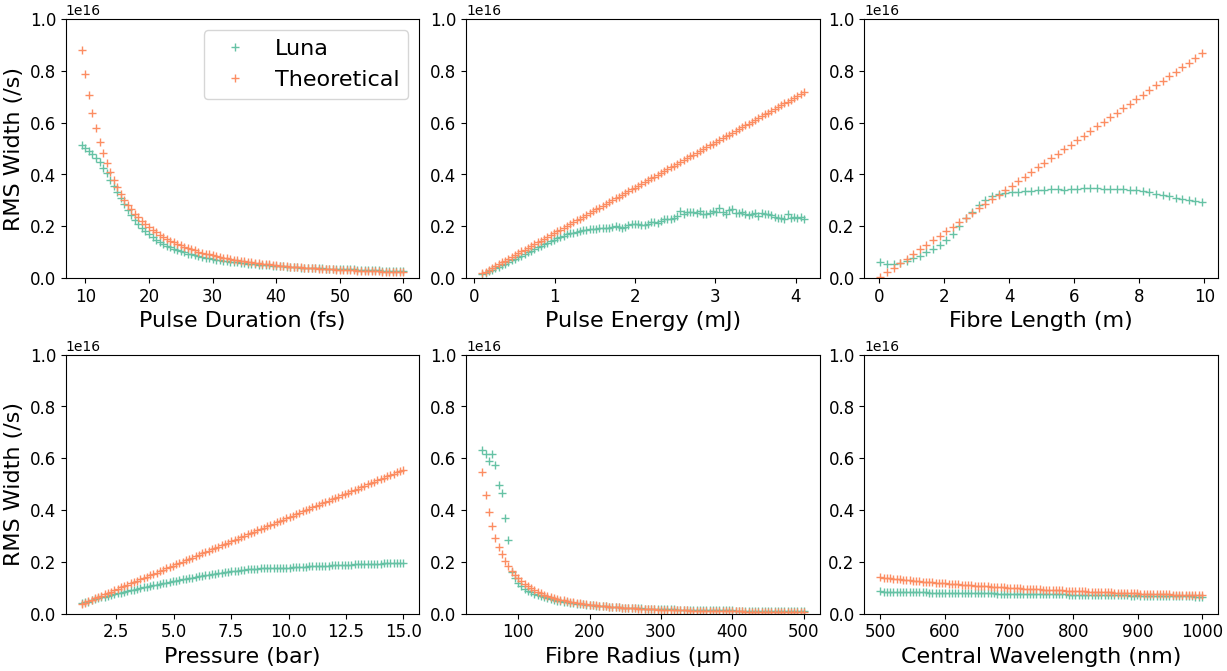
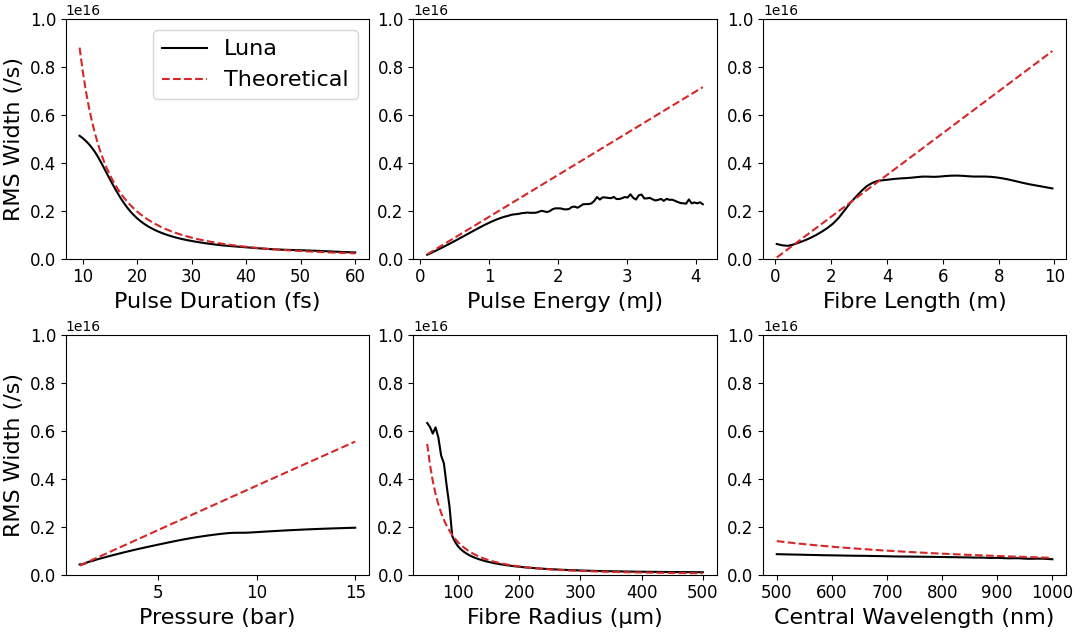
replotted

diff --git a/HCF sim/Python/building_datasets/gaussian_input/angfreq_bandwidth/plots/simulation vs theoretical/plot_all_in_subplots.py b/HCF sim/Python/building_datasets/gaussian_input/angfreq_bandwidth/plots/simulation vs theoretical/plot_all_in_subplots.py
@@ -1,6 +1,6 @@
 import pandas as pd
 from matplotlib import pyplot as plt
-plt.rcParams['axes.prop_cycle'] = plt.cycler(color=plt.cm.Set2.colors)
+#plt.rcParams['axes.prop_cycle'] = plt.cycler(color=plt.cm.Set2.colors)
 
 df_duration = pd.read_csv("C:\\Users\\iammo\\Documents\\Optimising-Field-Synthesiser\\HCF sim\\Python\\building_datasets\\gaussian_input\\angfreq_bandwidth\\data\\duration_vs_rms_width.csv")
 df_energy = pd.read_csv("C:\\Users\\iammo\\Documents\\Optimising-Field-Synthesiser\\HCF sim\\Python\\building_datasets\\gaussian_input\\angfreq_bandwidth\\data\\energy_vs_rms_width.csv")
@@ -46,28 +46,28 @@ f_ax6.xaxis.set_tick_params(labelsize=12)
 f_ax6.yaxis.set_tick_params(labelsize=12)
 
 
-f_ax1.plot(df_duration.iloc[:,0][8:], df_duration.iloc[:,1][8:], '+', label='Luna')
-f_ax1.plot(df_duration.iloc[:,0][8:], df_duration.iloc[:,2][8:], '+', label='Theoretical')
+f_ax1.plot(df_duration.iloc[:,0][8:], df_duration.iloc[:,1][8:], color='black', label='Luna')
+f_ax1.plot(df_duration.iloc[:,0][8:], df_duration.iloc[:,2][8:], '--', color='tab:red', label='Theoretical')
 f_ax1.set_xlabel('Pulse Duration (fs)', fontsize=16)
 
-f_ax2.plot(df_energy.iloc[:,0], df_energy.iloc[:,1], '+', label='Luna')
-f_ax2.plot(df_energy.iloc[:,0], df_energy.iloc[:,2], '+', label='Theoretical')
+f_ax2.plot(df_energy.iloc[:,0], df_energy.iloc[:,1], color='black', label='Luna')
+f_ax2.plot(df_energy.iloc[:,0], df_energy.iloc[:,2], '--', color='tab:red', label='Theoretical')
 f_ax2.set_xlabel('Pulse Energy (mJ)', fontsize=16)
 
-f_ax3.plot(df_flength.iloc[:,0][:50], df_flength.iloc[:,1][:50], '+', label='Luna')
-f_ax3.plot(df_flength.iloc[:,0][:50], df_flength.iloc[:,2][:50], '+', label='Theoretical')
+f_ax3.plot(df_flength.iloc[:,0][:50], df_flength.iloc[:,1][:50], color='black', label='Luna')
+f_ax3.plot(df_flength.iloc[:,0][:50], df_flength.iloc[:,2][:50], '--', color='tab:red', label='Theoretical')
 f_ax3.set_xlabel('Fibre Length (m)', fontsize=16)
 
-f_ax4.plot(df_pressure.iloc[:,0], df_pressure.iloc[:,1], '+', label='Luna')
-f_ax4.plot(df_pressure.iloc[:,0], df_pressure.iloc[:,2], '+', label='Theoretical')
+f_ax4.plot(df_pressure.iloc[:,0], df_pressure.iloc[:,1], color='black', label='Luna')
+f_ax4.plot(df_pressure.iloc[:,0], df_pressure.iloc[:,2], '--', color='tab:red', label='Theoretical')
 f_ax4.set_xlabel('Pressure (bar)', fontsize=16)
 
-f_ax5.plot(df_radius.iloc[:,0], df_radius.iloc[:,1], '+', label='Luna')
-f_ax5.plot(df_radius.iloc[:,0], df_radius.iloc[:,2], '+', label='Theoretical')
+f_ax5.plot(df_radius.iloc[:,0], df_radius.iloc[:,1], color='black', label='Luna')
+f_ax5.plot(df_radius.iloc[:,0], df_radius.iloc[:,2], '--', color='tab:red', label='Theoretical')
 f_ax5.set_xlabel('Fibre Radius (μm)', fontsize=16)
 
-f_ax6.plot(df_wavelength.iloc[:,0], df_wavelength.iloc[:,1], '+', label='Luna Simulation')
-f_ax6.plot(df_wavelength.iloc[:,0], df_wavelength.iloc[:,2], '+', label='Theoretical')
+f_ax6.plot(df_wavelength.iloc[:,0], df_wavelength.iloc[:,1], color='black', label='Luna Simulation')
+f_ax6.plot(df_wavelength.iloc[:,0], df_wavelength.iloc[:,2], '--', color='tab:red', label='Theoretical')
 f_ax6.set_xlabel('Central Wavelength (nm)', fontsize=16)
 f_ax1.legend(fontsize=16)
 
